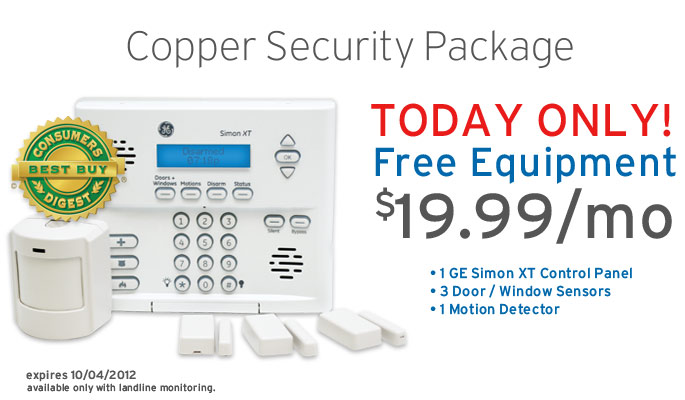
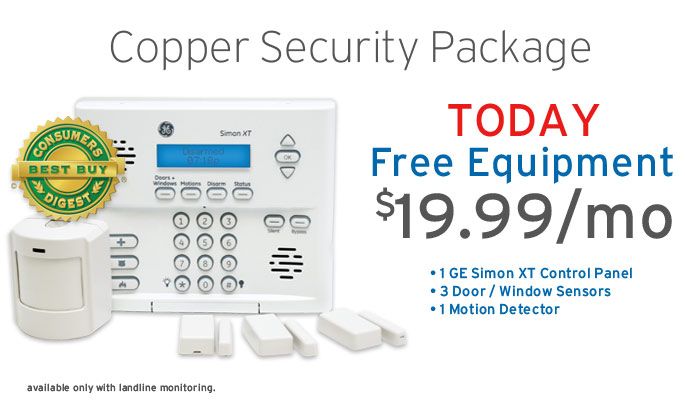
committing flash promotion to codebase

Changed region(s): [[0.5212, 0.24, 1.0, 0.48], [0.1533, 0.06, 0.8584, 0.18], [0.0307, 0.9, 0.2146, 0.96]]

diff --git a/src/templates/base.html b/src/templates/base.html
@@ -51,6 +51,16 @@
 
             {% block quick-links %}
             <ul id="quick-link-navigation">
+                <li>
+                    <a href="http://www.yelp.com/biz/protect-america-austin-2" title="Review Us on Yelp!" style="background: transparent; " class="yelp-button">
+                        <img src="{{ STATIC_URL }}img/external/yelp-logo-sml.png" alt="yelp-logo-sml" width="56" height="24" style="padding-top: 2px;">
+                    </a>
+                </li>
+                <style type="text/css">
+                    .yelp-button:hover{
+                        background: transparent;    
+                    }
+                </style>
                 <li id="quick-social">                
                     <div id="google-button">
                         <g:plusone size="small" href="http://www.protectamerica.com" onClick="_gaq.push(['_trackEvent', '+1 Us', 'Quick Social', '{{ page_name }}']);"></g:plusone>

diff --git a/src/templates/affiliates/adt-comparison/index.html b/src/templates/affiliates/adt-comparison/index.html
@@ -22,10 +22,14 @@ $(document).ready(function() {
 {% endblock %}
 
 {% block left-wrapper %}
+    <img src="{{ STATIC_URL }}/img/banners/hero-banners/flash-promotion-adt.jpg" alt="apples-top" style="position: relative; right: 32px;"/>
+    {% comment %}
     <h1 class="tk-freight-sans-pro">How Do You Like Them Apples!</h1>
     <h2 class="tk-freight-sans-pro">A True Security Comparison.</h2>
     <img src="{{ STATIC_URL }}/img/affiliates/adt-comparison/apples-top.jpg" alt="apples-top" width="540" height="169" />
     <h3>What ADT won’t say speaks volumes.</h3>
+    {% endcomment %}
+
 {% endblock %}    
 
 {% block assurance-block-one %}
